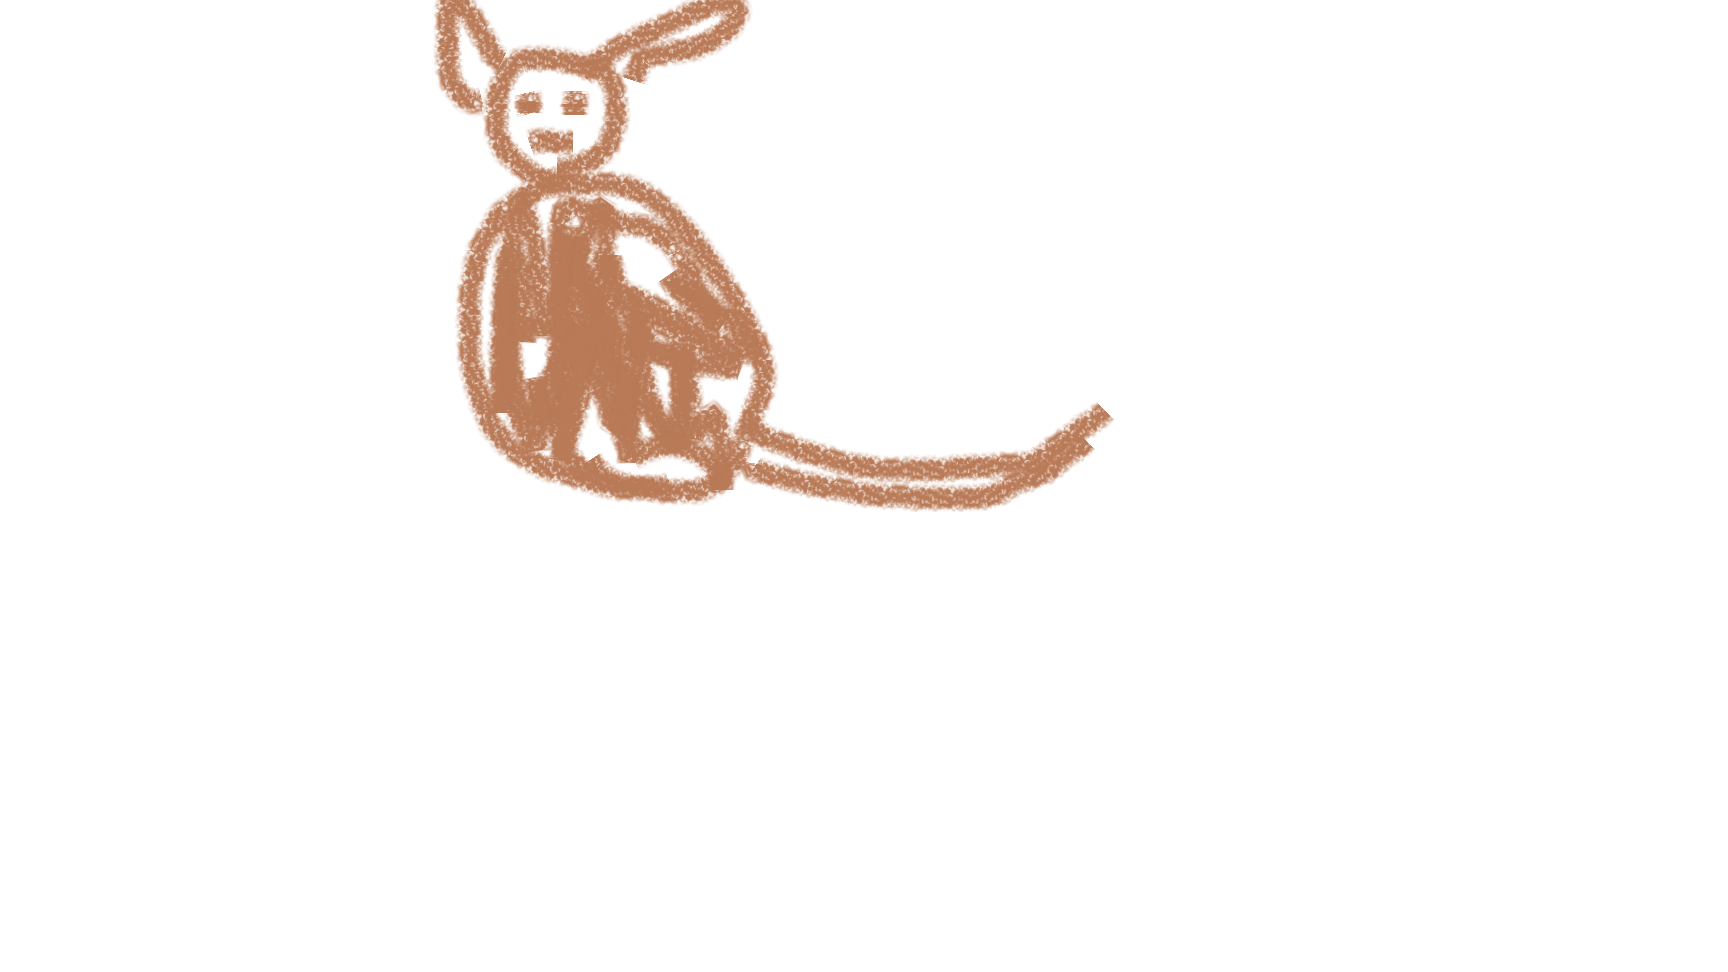
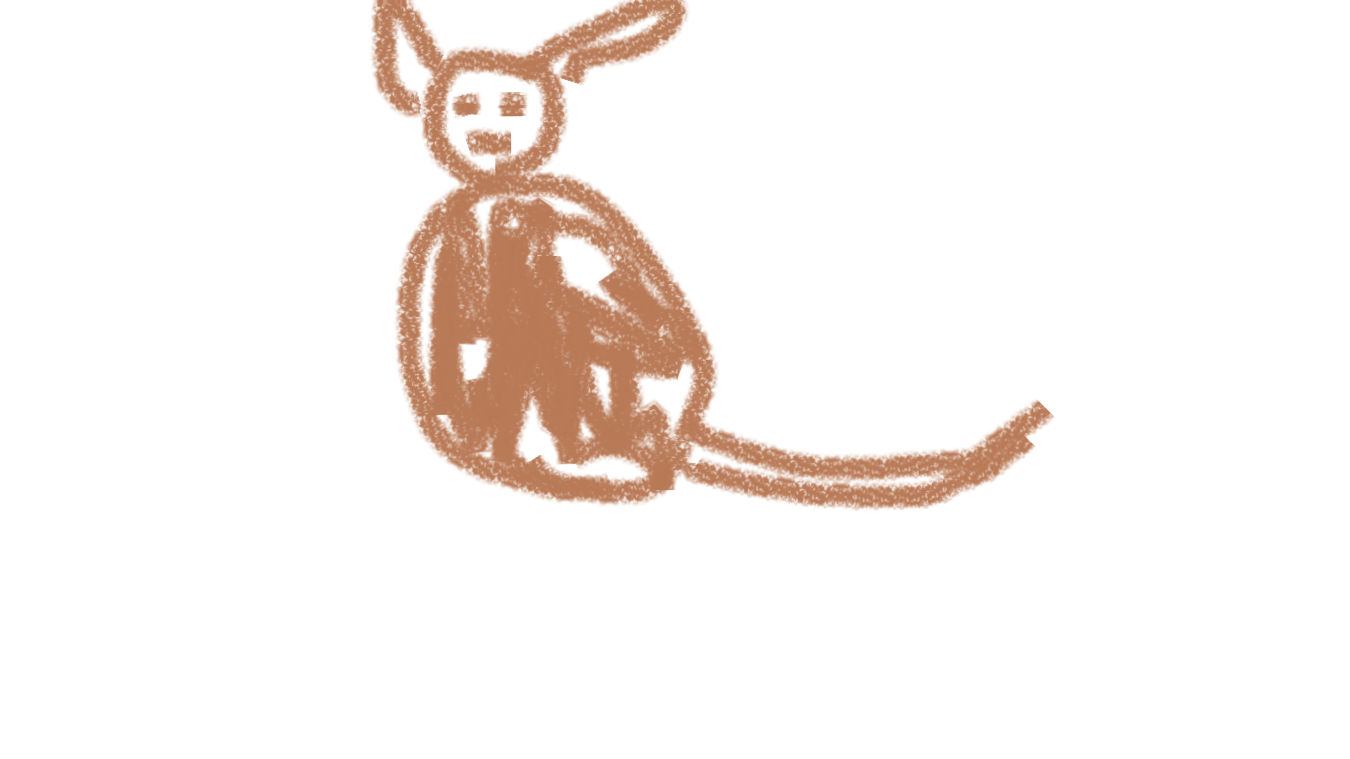
Enemy images are now displayed

Changed region(s): [[0.2489, 0.0, 0.7778, 0.697]]

diff --git a/scripts/chargen.py b/scripts/chargen.py
@@ -2,8 +2,9 @@
 # This module handles the stats that both the character and enemies have and the functions that they have
 # Generates enemies by importing the csv from thew data folder
 
-import random, csv
+import random, csv, os
 import scripts.my_globals as g
+from pygame.image import load
 
 
 class Character:
@@ -136,7 +137,12 @@ class Enemy(Character):
         self.midday_occ = int(data['mid_occ'])
         self.evening_occ = int(data['eve_occ'])
         self.night_occ = int(data['night_occ'])
-
+        self.image_path = os.path.join('images', 'enemies', data['image'])
+    
+    def loadImage(self):
+        self.image = load(self.image_path).convert()
+        
+    
 
 def getEnemyDataFrom(csv_file_name):
     # pulls dictionaries from each line of the csv file and returns a list of enemy objects
@@ -181,6 +187,7 @@ def generateEnemy(game_time):
 
     for enemy in enemy_list:
         if enemy_chosen == enemy.name:
+            enemy.loadImage()
             return enemy
 
 

diff --git a/scripts/draw_wh.py b/scripts/draw_wh.py
@@ -183,7 +183,8 @@ def drawPrompt(center_pane, message):
     g.screen.blit(message_text, message_text_rect)
 
 def drawEnemy(center_pane, enemy): #todo write draw enemy function
-    pass
+    enemy_image = pygame.transform.smoothscale(enemy.image, (center_pane.width, center_pane.height))
+    g.screen.blit(enemy_image, center_pane)
 
 
 def getPaneDimensions():
